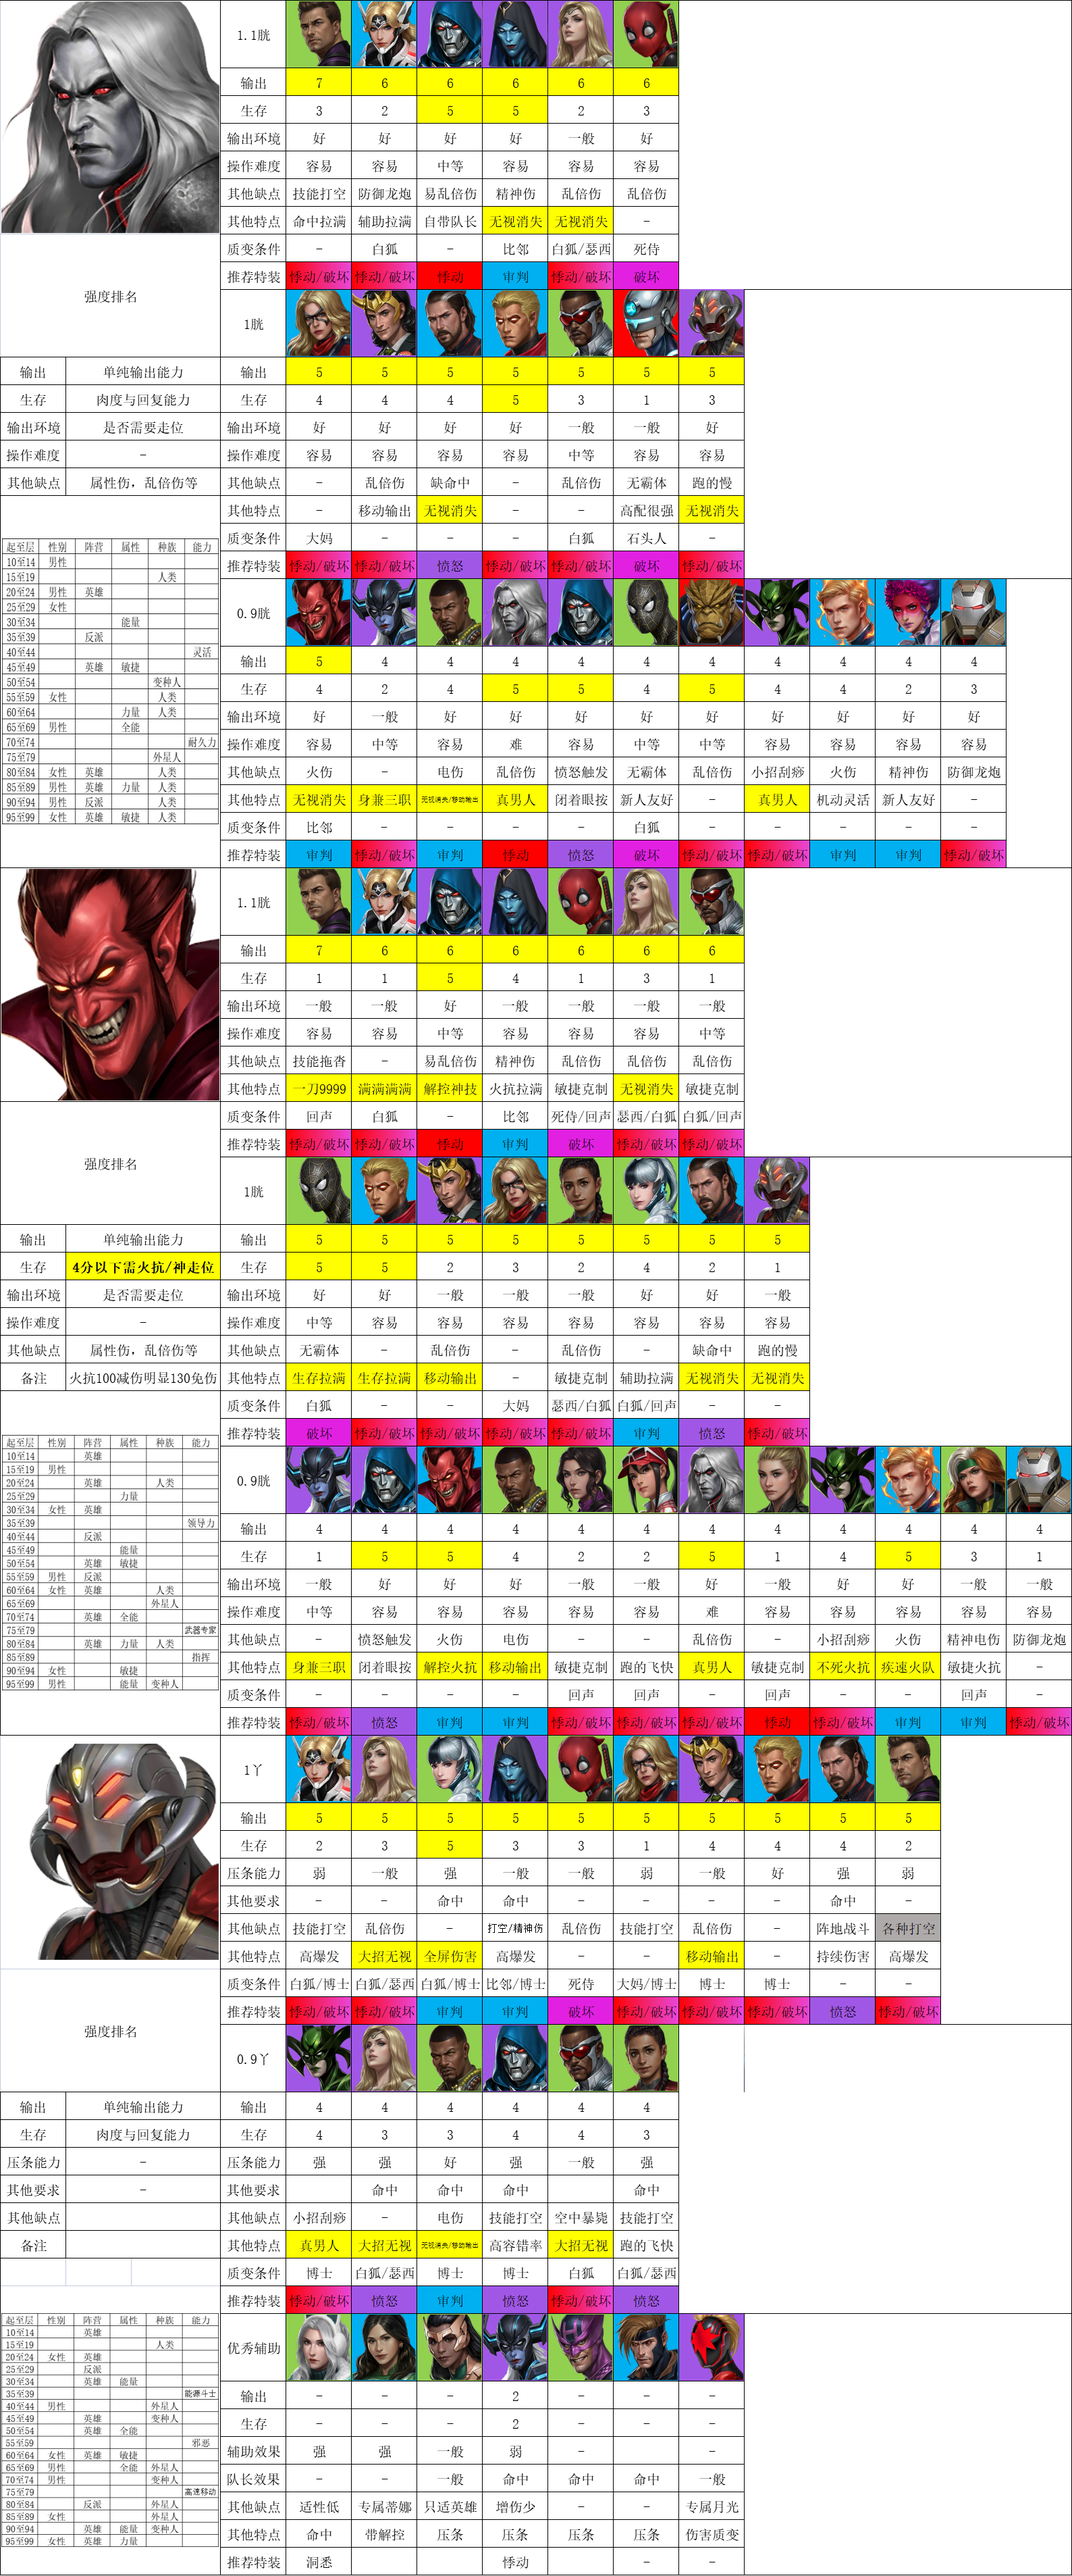
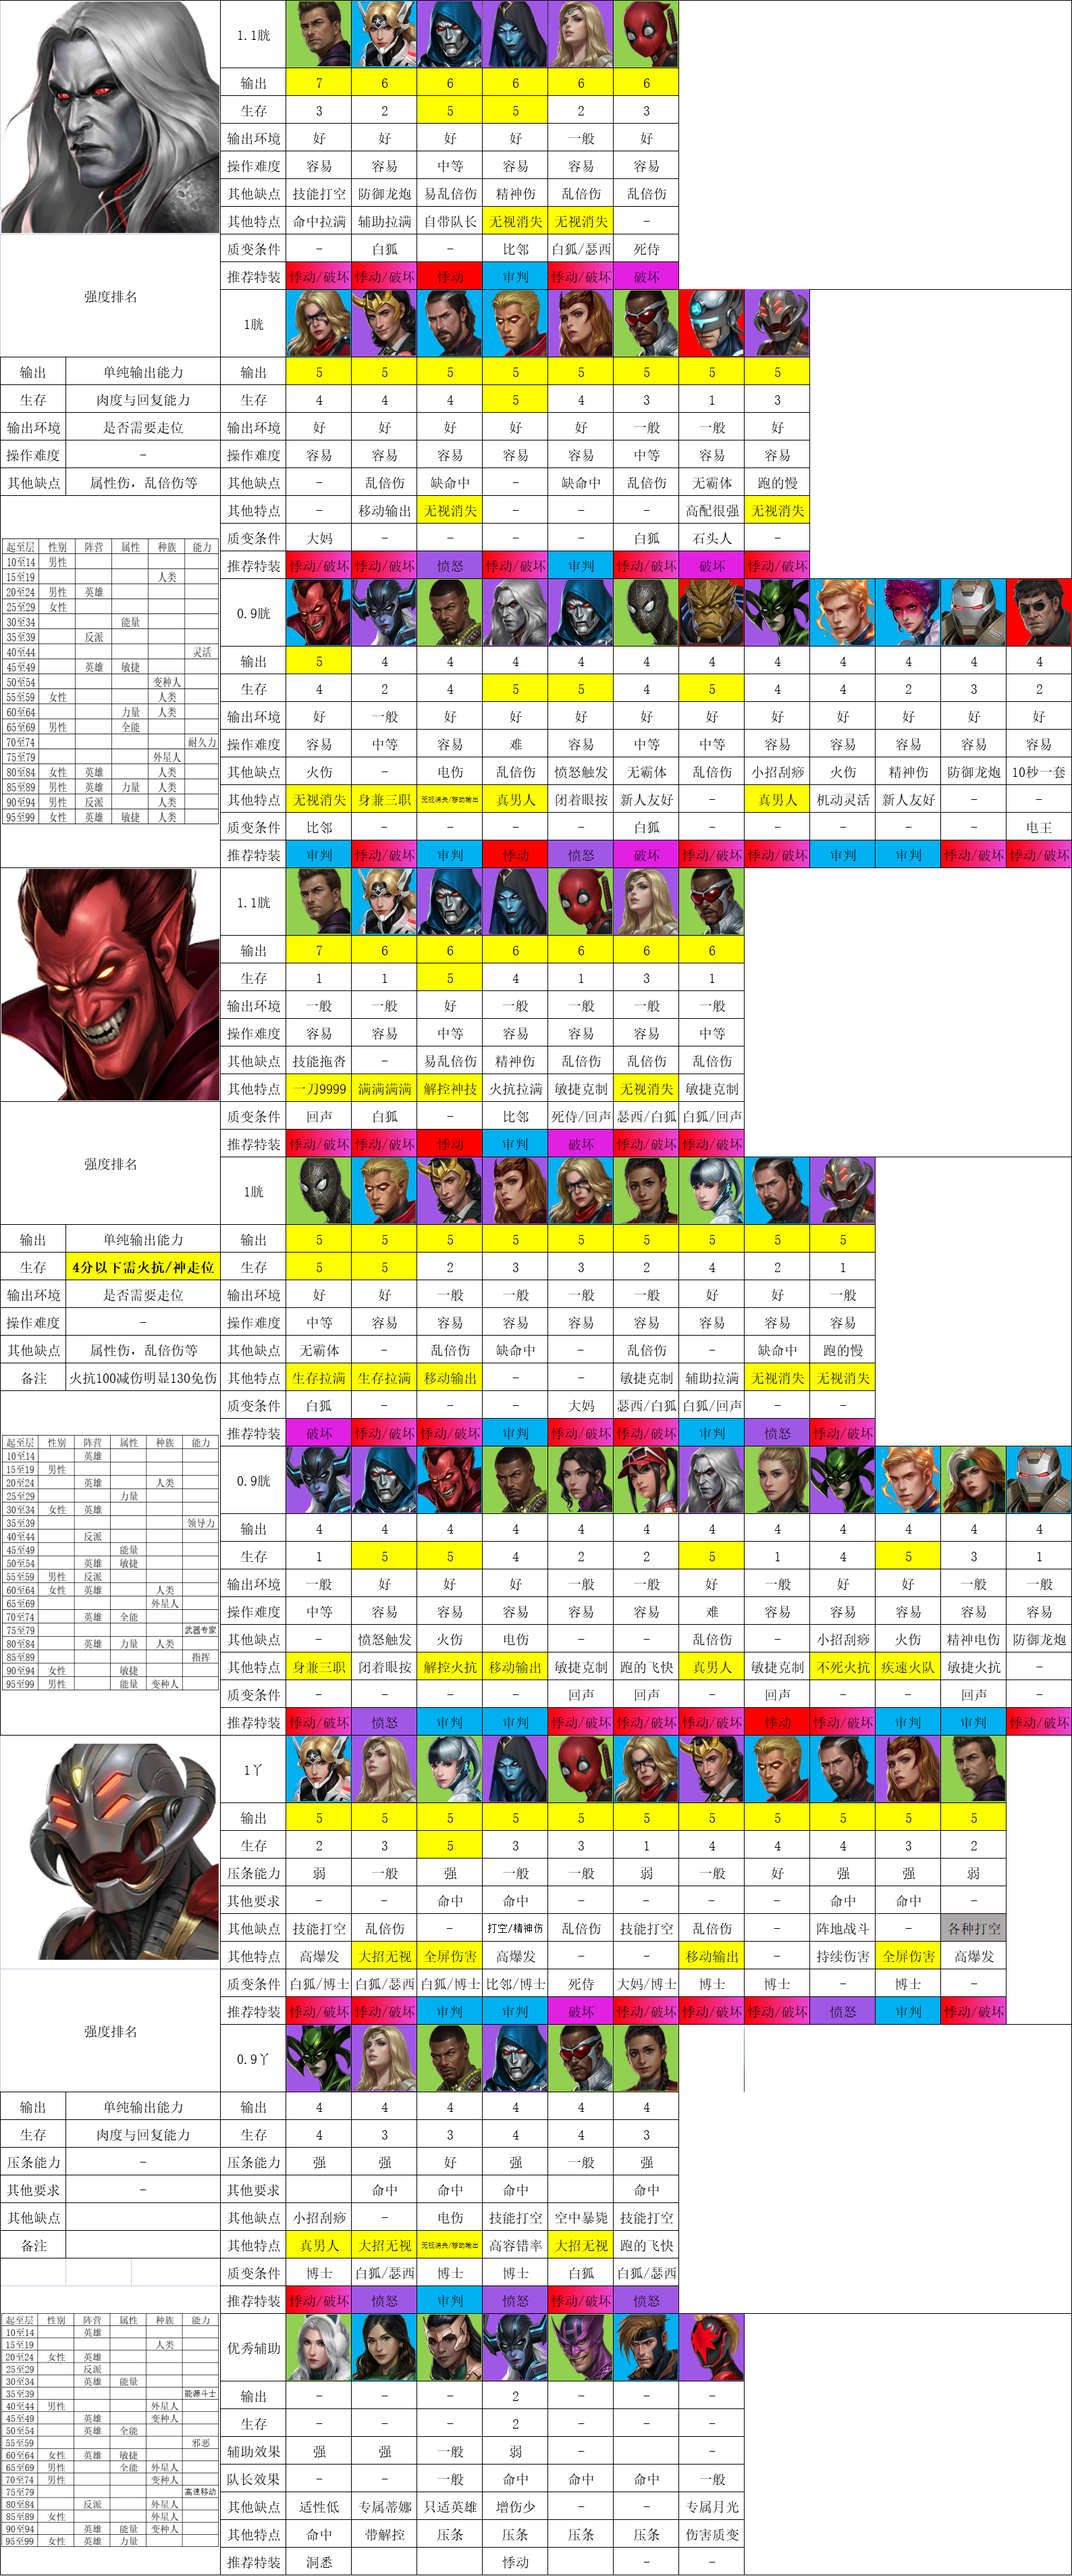
updata 2022-05-17

diff --git a/_posts/2022-05-01-boss.md b/_posts/2022-05-01-boss.md
@@ -10,9 +10,16 @@ layout: post
 
 ### 传奇boss打手推荐
 
-[ **8.0 版本** ]    ( by 炫夜Q群 收藏家无法 ) 注：不在这个表上不代表不能玩，打打中低层也是可以的
+[ **8.05 版本** ]    ( by 炫夜Q群 收藏家无法 ) 注：不在这个表上不代表不能玩，打打中低层也是可以的
 
 <img src="https://www.nextstepone.ltd/mff/images/boss1.png" alt="" referrerpolicy="no-referrer">
+
+<br >
+
+#### 8.05更新日志
+
+- 新增章鱼（悸动/破坏）纳尔，输出一般，生存一般，跑的慢，制服10秒一套倍伤，0.9垫底
+- 新增女巫（审判），看走眼了，HIT超多输出尚可，哪里亮了按哪里，类似于二丫，生存略弱于二丫，需补命中，打奥创很舒服，遗憾的是，3个BOSS都几乎没有上场的条件
 
 <br >
 

diff --git a/_pages/2022-03-04-updata.md b/_pages/2022-03-04-updata.md
@@ -6,6 +6,21 @@ category: Jekyll
 layout: home
 ---
 
+#### 2022-05-17
+
+1.更新 **8.05版本** 世界BOSS
+
+- 新增章鱼（悸动/破坏）纳尔，输出一般，生存一般，跑的慢，制服10秒一套倍伤，0.9垫底
+- 新增女巫（审判），看走眼了，HIT超多输出尚可，哪里亮了按哪里，类似于二丫，生存略弱于二丫，需补命中，打奥创很舒服，遗憾的是，3个BOSS都几乎没有上场的条件
+
+2.增加 **漫威影视** 板块 
+
+© 2022 NextstepOne
+
+
+
+------
+
 
 
 #### 2022-05-13
